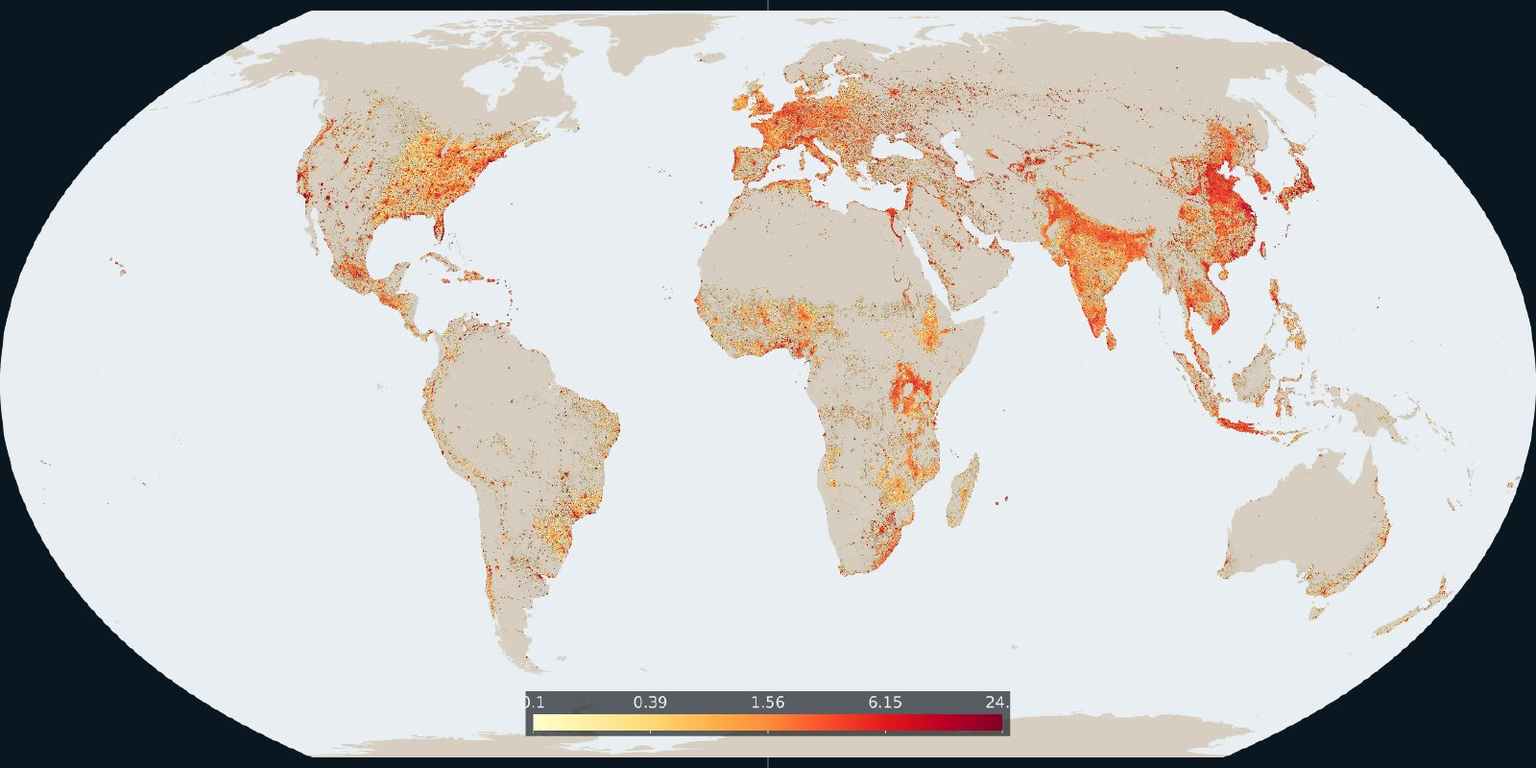
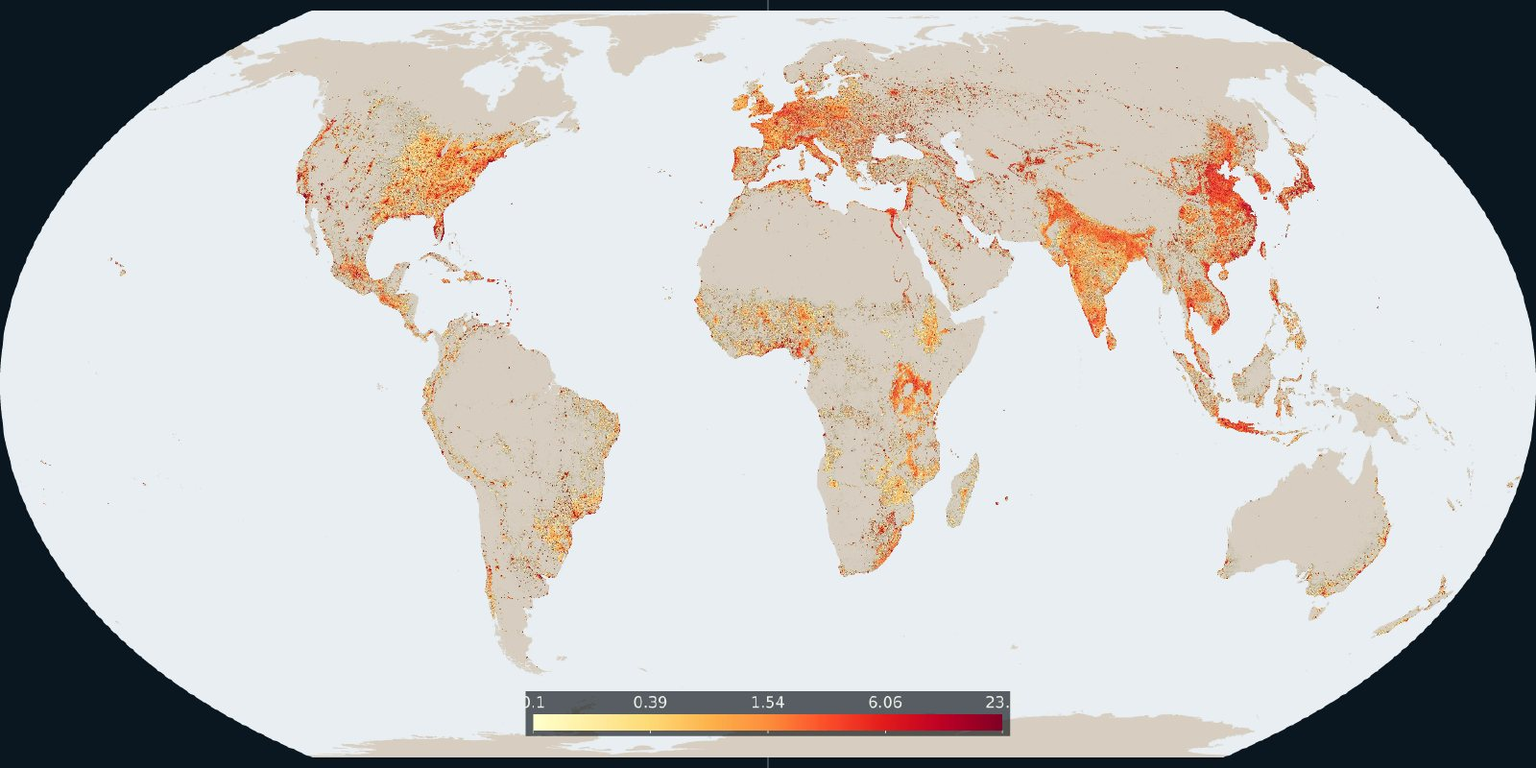
Draw cities and built-up land from the 2020 GHSL epoch.
R2023A’s 2030 step is a projection, so the settlement and built-up plates now use the 2020 satellite epoch, and the card text follows that year. The Maps room active filter chip keeps a lime fill and dark label; the catalog background had been covering the fill and leaving the label unreadably dark.

diff --git a/src/i18n/maps-ru.ts b/src/i18n/maps-ru.ts
@@ -648,37 +648,37 @@ export const ru: Record<string, MapCopy> = {
   },
   'cities-and-towns': {
     title: 'Города и посёлки',
-    cardMeta: 'GHS-SMOD R2023A · эпоха 2030 · сетка 0,02°',
-    hook: 'Городские центры, посёлки и сельская суша на сетке расселения GHSL за 2030 год.',
+    cardMeta: 'GHS-SMOD R2023A · эпоха 2020 · сетка 0,02°',
+    hook: 'Городские центры, посёлки и сельская суша на сетке расселения GHSL за 2020 год.',
     description:
-      'Пластина — эпоха 2030 года слоя GHS-SMOD R2023A, классификации расселения Global Human Settlement Layer. Классы сетки 30 угловых секунд сведены большинством в ячейку 0,02°. Красный — городской центр (класс 30). Оранжевый — посёлок или полуплотное скопление (классы 21, 22 и 23). Оливковый — сельские ячейки (классы 11, 12 и 13). Большая часть площади суши — сельский класс.',
+      'Пластина — эпоха 2020 года слоя GHS-SMOD R2023A, классификации расселения Global Human Settlement Layer: последний шаг этого выпуска, построенный по спутниковым наблюдениям. Классы сетки 30 угловых секунд сведены большинством в ячейку 0,02°. Красный — городской центр (класс 30). Оранжевый — посёлок или полуплотное скопление (классы 21, 22 и 23). Оливковый — сельские ячейки (классы 11, 12 и 13). Большая часть площади суши — сельский класс.',
     whyOnShelf:
       'Сетка показывает класс расселения земли и проведена одинаково во всех странах. Это не национальная доля «городского» населения и не число людей.',
     howToRead:
       'Красный — городские центры, оранжевый — посёлки и полуплотные участки, оливковый — сельские ячейки. Числовой шкалы нет: три цвета — эти группы классов. Вода в сетке расселения и озёра Natural Earth не закрашены.',
     caveats:
-      'Класс 30 — городской центр в классификации GHSL, а не всякое место, которое страна называет городом. Эпоха 2030 — последний шаг выпуска R2023A и включает его прогноз. Пластина не показывает, сколько людей живёт в каждом классе.',
+      'Класс 30 — городской центр в классификации GHSL, а не всякое место, которое страна называет городом. Отдельно: эпохи 2025 и 2030 в том же выпуске — модельный прогноз, и это не эта карта. Пластина не показывает, сколько людей живёт в каждом классе.',
     licenseNote:
-      'Объединённый исследовательский центр Еврокомиссии, GHSL GHS-SMOD R2023A, эпоха 2030, CC BY 4.0. Классы посчитаны на сетке 0,02°. Границы: Natural Earth.',
+      'Объединённый исследовательский центр Еврокомиссии, GHSL GHS-SMOD R2023A, эпоха 2020, CC BY 4.0. Классы посчитаны на сетке 0,02°. Границы: Natural Earth.',
     imageAlt:
-      'Карта Equal Earth классов расселения GHSL на 2030 год: красные городские центры, оранжевые посёлки, оливковая сельская суша',
+      'Карта Equal Earth классов расселения GHSL на 2020 год: красные городские центры, оранжевые посёлки, оливковая сельская суша',
   },
   'built-up-surface': {
     title: 'Застроенная поверхность',
-    cardMeta: 'GHS-BUILT-S R2023A · эпоха 2030 · процент ячейки',
-    hook: 'Какая доля каждой ячейки занята застроенной поверхностью на сетке GHSL 2030 года.',
+    cardMeta: 'GHS-BUILT-S R2023A · эпоха 2020 · процент ячейки',
+    hook: 'Какая доля каждой ячейки занята застроенной поверхностью на сетке GHSL 2020 года.',
     description:
-      'Пластина суммирует застроенную поверхность GHS-BUILT-S R2023A за эпоху 2030 года. Квадратные метры сетки 30 угловых секунд сложены в каждой ячейке 0,02° и разделены на площадь этой ячейки. Цвет — этот процент, по логарифмической шкале от 0,1 до примерно 24. Ячейки ниже 0,1 процента остаются цветом суши. Верх шкалы — 99,5-й перцентиль ячеек, где застройка есть.',
+      'Пластина суммирует застроенную поверхность GHS-BUILT-S R2023A за эпоху 2020 года, последний шаг этого выпуска, построенный по спутниковым наблюдениям. Квадратные метры сетки 30 угловых секунд сложены в каждой ячейке 0,02° и разделены на площадь этой ячейки. Цвет — этот процент, по логарифмической шкале от 0,1 до примерно 24. Ячейки ниже 0,1 процента остаются цветом суши. Верх шкалы — 99,5-й перцентиль ячеек, где застройка есть.',
     whyOnShelf:
       'Застроенная поверхность — это земля под зданиями. Это не число людей и не огни, которые видны ночью.',
     howToRead:
       'От жёлтого к тёмно-красному доля ячейки больше. Число на шкале — процент ячейки 0,02°. Ячейка может перейти 0,1 процента и плотным кварталом, и более редкой застройкой.',
     caveats:
-      'Величина — застроенная поверхность, делённая на площадь ячейки, а не этажи, сложенные в башнях, и не юридическая граница города. Океан и озёра не закрашены. Эпоха 2030 — последний шаг выпуска R2023A и включает его прогноз.',
+      'Величина — застроенная поверхность, делённая на площадь ячейки, а не этажи, сложенные в башнях, и не юридическая граница города. Океан и озёра не закрашены. Отдельно: эпохи 2025 и 2030 в том же выпуске — модельный прогноз, и это не эта карта.',
     licenseNote:
-      'Объединённый исследовательский центр Еврокомиссии, GHSL GHS-BUILT-S R2023A, эпоха 2030, CC BY 4.0. Сведено в сетку 0,02°. Границы: Natural Earth.',
+      'Объединённый исследовательский центр Еврокомиссии, GHSL GHS-BUILT-S R2023A, эпоха 2020, CC BY 4.0. Сведено в сетку 0,02°. Границы: Natural Earth.',
     imageAlt:
-      'Карта Equal Earth процента застроенной поверхности в ячейке 0,02° на 2030 год, от жёлтого к красному, со шкалой чисел',
+      'Карта Equal Earth процента застроенной поверхности в ячейке 0,02° на 2020 год, от жёлтого к красному, со шкалой чисел',
   },
   'population-growth': {
     title: 'Рост населения',

diff --git a/src/i18n/maps-lv.ts b/src/i18n/maps-lv.ts
@@ -645,37 +645,37 @@ export const lv: Record<string, MapCopy> = {
   },
   'cities-and-towns': {
     title: 'Pilsētas un pilsētciemati',
-    cardMeta: 'GHS-SMOD R2023A · 2030. gada epoha · 0,02° tīkls',
-    hook: 'Pilsētu centri, pilsētciemati un lauku zeme GHSL apdzīvojuma tīklā 2030. gadam.',
+    cardMeta: 'GHS-SMOD R2023A · 2020. gada epoha · 0,02° tīkls',
+    hook: 'Pilsētu centri, pilsētciemati un lauku zeme GHSL apdzīvojuma tīklā 2020. gadam.',
     description:
-      'Plate ir GHS-SMOD R2023A 2030. gada epoha, Global Human Settlement Layer apdzīvojuma klasifikācija. 30 loka sekunžu klases ir saskaitītas ar vairākumu 0,02° šūnā. Sarkans ir pilsētas centrs (30. klase). Oranžs ir pilsētciemats vai pusblīvs sakopojums (21., 22. un 23. klase). Olīvzaļš ir lauku šūnas (11., 12. un 13. klase). Lielākā daļa sauszemes platības ir lauku klase.',
+      'Plate ir GHS-SMOD R2023A 2020. gada epoha, Global Human Settlement Layer apdzīvojuma klasifikācija: pēdējā šī izdevuma epoha, kas veidota no satelītu novērojumiem. 30 loka sekunžu klases ir saskaitītas ar vairākumu 0,02° šūnā. Sarkans ir pilsētas centrs (30. klase). Oranžs ir pilsētciemats vai pusblīvs sakopojums (21., 22. un 23. klase). Olīvzaļš ir lauku šūnas (11., 12. un 13. klase). Lielākā daļa sauszemes platības ir lauku klase.',
     whyOnShelf:
       'Tīkls rāda zemes apdzīvojuma klasi un ir zīmēts vienādi katrā valstī. Tas nav valsts pilsētu iedzīvotāju procents un nav cilvēku skaits.',
     howToRead:
       'Sarkans apzīmē pilsētu centrus, oranžs pilsētciematus un pusblīvas vietas, olīvzaļš lauku šūnas. Skaitļu skalas nav: trīs krāsas ir šīs klašu grupas. Ūdens apdzīvojuma tīklā un Natural Earth ezeri paliek nekrāsoti.',
     caveats:
-      '30. klase ir pilsētas centrs GHSL klasifikācijā, nevis katra vieta, ko valsts sauc par pilsētu. 2030. gada epoha ir R2023A izdevuma pēdējais solis un ietver tā prognozi. Plate nerāda, cik cilvēku dzīvo katrā klasē.',
+      '30. klase ir pilsētas centrs GHSL klasifikācijā, nevis katra vieta, ko valsts sauc par pilsētu. Atsevišķi: 2025. un 2030. gada epohas tajā pašā izdevumā ir modeļa prognozes, un tās nav šī karte. Plate nerāda, cik cilvēku dzīvo katrā klasē.',
     licenseNote:
-      'Eiropas Komisijas Kopīgais pētniecības centrs, GHSL GHS-SMOD R2023A, 2030. gada epoha, CC BY 4.0. Klases saskaitītas 0,02° tīklā. Robežas: Natural Earth.',
+      'Eiropas Komisijas Kopīgais pētniecības centrs, GHSL GHS-SMOD R2023A, 2020. gada epoha, CC BY 4.0. Klases saskaitītas 0,02° tīklā. Robežas: Natural Earth.',
     imageAlt:
-      'Equal Earth karte ar GHSL apdzīvojuma klasēm 2030. gadam: sarkani pilsētu centri, oranži pilsētciemati, olīvzaļa lauku zeme',
+      'Equal Earth karte ar GHSL apdzīvojuma klasēm 2020. gadam: sarkani pilsētu centri, oranži pilsētciemati, olīvzaļa lauku zeme',
   },
   'built-up-surface': {
     title: 'Apbūvētā virsma',
-    cardMeta: 'GHS-BUILT-S R2023A · 2030. gada epoha · šūnas procents',
-    hook: 'Cik lielu daļu no katras šūnas veido apbūvētā virsma 2030. gada GHSL tīklā.',
+    cardMeta: 'GHS-BUILT-S R2023A · 2020. gada epoha · šūnas procents',
+    hook: 'Cik lielu daļu no katras šūnas veido apbūvētā virsma 2020. gada GHSL tīklā.',
     description:
-      'Plate summē GHS-BUILT-S R2023A apbūvēto virsmu 2030. gada epohai. Kvadrātmetri no 30 loka sekunžu tīkla ir saskaitīti katrā 0,02° šūnā un dalīti ar šīs šūnas laukumu. Krāsa ir šis procents logaritmiskā skalā no 0,1 līdz aptuveni 24. Šūnas zem 0,1 procenta paliek zemes krāsā. Skalas augša ir 99,5. procentile šūnām, kurās ir kaut kāda apbūve.',
+      'Plate summē GHS-BUILT-S R2023A apbūvēto virsmu 2020. gada epohai, pēdējai šī izdevuma epohai, kas veidota no satelītu novērojumiem. Kvadrātmetri no 30 loka sekunžu tīkla ir saskaitīti katrā 0,02° šūnā un dalīti ar šīs šūnas laukumu. Krāsa ir šis procents logaritmiskā skalā no 0,1 līdz aptuveni 24. Šūnas zem 0,1 procenta paliek zemes krāsā. Skalas augša ir 99,5. procentile šūnām, kurās ir kaut kāda apbūve.',
     whyOnShelf:
       'Apbūvētā virsma ir zeme zem ēkām. Tas nav cilvēku skaits un nav gaismas, kas redzamas naktī.',
     howToRead:
       'No dzeltena uz tumši sarkanu šūnas daļa ir lielāka. Skaitlis skalā ir 0,02° šūnas procents. Šūna var pārsniegt 0,1 procentu ar blīvu kvartālu vai ar retāku apbūvi.',
     caveats:
-      'Vērtība ir apbūvētā virsma, dalīta ar šūnas laukumu, nevis stāvu platība torņos un ne juridiskā pilsētas robeža. Okeāns un ezeri nav krāsoti. 2030. gada epoha ir R2023A izdevuma pēdējais solis un ietver tā prognozi.',
+      'Vērtība ir apbūvētā virsma, dalīta ar šūnas laukumu, nevis stāvu platība torņos un ne juridiskā pilsētas robeža. Okeāns un ezeri nav krāsoti. Atsevišķi: 2025. un 2030. gada epohas tajā pašā izdevumā ir modeļa prognozes, un tās nav šī karte.',
     licenseNote:
-      'Eiropas Komisijas Kopīgais pētniecības centrs, GHSL GHS-BUILT-S R2023A, 2030. gada epoha, CC BY 4.0. Apkopots 0,02° tīklā. Robežas: Natural Earth.',
+      'Eiropas Komisijas Kopīgais pētniecības centrs, GHSL GHS-BUILT-S R2023A, 2020. gada epoha, CC BY 4.0. Apkopots 0,02° tīklā. Robežas: Natural Earth.',
     imageAlt:
-      'Equal Earth karte ar apbūvētās virsmas procentu katrā 0,02° šūnā 2030. gadā, no dzeltena uz sarkanu, ar skaitļu skalu',
+      'Equal Earth karte ar apbūvētās virsmas procentu katrā 0,02° šūnā 2020. gadā, no dzeltena uz sarkanu, ar skaitļu skalu',
   },
   'population-growth': {
     title: 'Iedzīvotāju skaita pieaugums',

diff --git a/src/i18n/maps-pl.ts b/src/i18n/maps-pl.ts
@@ -645,37 +645,37 @@ export const pl: Record<string, MapCopy> = {
   },
   'cities-and-towns': {
     title: 'Miasta i miasteczka',
-    cardMeta: 'GHS-SMOD R2023A · epoka 2030 · siatka 0,02°',
-    hook: 'Ośrodki miejskie, miasteczka i ląd wiejski na siatce osadnictwa GHSL dla 2030 r.',
+    cardMeta: 'GHS-SMOD R2023A · epoka 2020 · siatka 0,02°',
+    hook: 'Ośrodki miejskie, miasteczka i ląd wiejski na siatce osadnictwa GHSL dla 2020 r.',
     description:
-      'Plansza to epoka 2030 warstwy GHS-SMOD R2023A, klasyfikacji osadnictwa Global Human Settlement Layer. Klasy siatki 30 sekund kątowych są liczone większością do komórki 0,02°. Czerwień to ośrodek miejski (klasa 30). Pomarańcz to miasteczko lub skupisko półgęste (klasy 21, 22 i 23). Oliwkowy to komórki wiejskie (klasy 11, 12 i 13). Większość powierzchni lądu to klasa wiejska.',
+      'Plansza to epoka 2020 warstwy GHS-SMOD R2023A, klasyfikacji osadnictwa Global Human Settlement Layer: ostatni krok tego wydania oparty na obserwacjach satelitarnych. Klasy siatki 30 sekund kątowych są liczone większością do komórki 0,02°. Czerwień to ośrodek miejski (klasa 30). Pomarańcz to miasteczko lub skupisko półgęste (klasy 21, 22 i 23). Oliwkowy to komórki wiejskie (klasy 11, 12 i 13). Większość powierzchni lądu to klasa wiejska.',
     whyOnShelf:
       'Siatka pokazuje klasę osadnictwa lądu i jest rysowana tak samo w każdym kraju. To nie krajowy odsetek ludności miejskiej i nie liczba ludzi.',
     howToRead:
       'Czerwień oznacza ośrodki miejskie, pomarańcz miasteczka i obszary półgęste, oliwkowy komórki wiejskie. Nie ma skali liczbowej: trzy kolory to te grupy klas. Woda w siatce osadnictwa i jeziora Natural Earth zostają niezamalowane.',
     caveats:
-      'Klasa 30 to ośrodek miejski w klasyfikacji GHSL, a nie każde miejsce, które kraj nazywa miastem. Epoka 2030 jest ostatnim krokiem wydania R2023A i obejmuje jego projekcję. Plansza nie pokazuje, ilu ludzi mieszka w każdej klasie.',
+      'Klasa 30 to ośrodek miejski w klasyfikacji GHSL, a nie każde miejsce, które kraj nazywa miastem. Osobno: epoki 2025 i 2030 w tym samym wydaniu są projekcją modelu i nie są tą mapą. Plansza nie pokazuje, ilu ludzi mieszka w każdej klasie.',
     licenseNote:
-      'Wspólne Centrum Badawcze Komisji Europejskiej, GHSL GHS-SMOD R2023A, epoka 2030, CC BY 4.0. Klasy policzone na siatce 0,02°. Granice: Natural Earth.',
+      'Wspólne Centrum Badawcze Komisji Europejskiej, GHSL GHS-SMOD R2023A, epoka 2020, CC BY 4.0. Klasy policzone na siatce 0,02°. Granice: Natural Earth.',
     imageAlt:
-      'Mapa Equal Earth klas osadnictwa GHSL na 2030 r.: czerwone ośrodki miejskie, pomarańczowe miasteczka, oliwkowy ląd wiejski',
+      'Mapa Equal Earth klas osadnictwa GHSL na 2020 r.: czerwone ośrodki miejskie, pomarańczowe miasteczka, oliwkowy ląd wiejski',
   },
   'built-up-surface': {
     title: 'Powierzchnia zabudowana',
-    cardMeta: 'GHS-BUILT-S R2023A · epoka 2030 · procent komórki',
-    hook: 'Jaką część każdej komórki stanowi powierzchnia zabudowana na siatce GHSL z 2030 r.',
+    cardMeta: 'GHS-BUILT-S R2023A · epoka 2020 · procent komórki',
+    hook: 'Jaką część każdej komórki stanowi powierzchnia zabudowana na siatce GHSL z 2020 r.',
     description:
-      'Plansza sumuje powierzchnię zabudowaną GHS-BUILT-S R2023A dla epoki 2030. Metry kwadratowe z siatki 30 sekund kątowych są dodawane w każdej komórce 0,02° i dzielone przez pole tej komórki. Kolor to ten procent, na skali logarytmicznej od 0,1 do około 24. Komórki poniżej 0,1 procenta zostają kolorem lądu. Góra skali to 99,5. percentyl komórek, w których jest jakakolwiek zabudowa.',
+      'Plansza sumuje powierzchnię zabudowaną GHS-BUILT-S R2023A dla epoki 2020, ostatniego kroku tego wydania opartego na obserwacjach satelitarnych. Metry kwadratowe z siatki 30 sekund kątowych są dodawane w każdej komórce 0,02° i dzielone przez pole tej komórki. Kolor to ten procent, na skali logarytmicznej od 0,1 do około 24. Komórki poniżej 0,1 procenta zostają kolorem lądu. Góra skali to 99,5. percentyl komórek, w których jest jakakolwiek zabudowa.',
     whyOnShelf:
       'Powierzchnia zabudowana to grunt pod budynkami. To nie liczba ludzi i nie światła widoczne w nocy.',
     howToRead:
       'Od żółci do głębokiej czerwieni udział komórki jest większy. Liczba na skali to procent komórki 0,02°. Komórka może przekroczyć 0,1 procenta gęstą dzielnicą albo rzadszą zabudową.',
     caveats:
-      'Wartość to powierzchnia zabudowana podzielona przez pole komórki, a nie powierzchnia pięter w wieżowcach i nie prawna granica miasta. Ocean i jeziora nie są kolorowane. Epoka 2030 jest ostatnim krokiem wydania R2023A i obejmuje jego projekcję.',
+      'Wartość to powierzchnia zabudowana podzielona przez pole komórki, a nie powierzchnia pięter w wieżowcach i nie prawna granica miasta. Ocean i jeziora nie są kolorowane. Osobno: epoki 2025 i 2030 w tym samym wydaniu są projekcją modelu i nie są tą mapą.',
     licenseNote:
-      'Wspólne Centrum Badawcze Komisji Europejskiej, GHSL GHS-BUILT-S R2023A, epoka 2030, CC BY 4.0. Złożone w siatkę 0,02°. Granice: Natural Earth.',
+      'Wspólne Centrum Badawcze Komisji Europejskiej, GHSL GHS-BUILT-S R2023A, epoka 2020, CC BY 4.0. Złożone w siatkę 0,02°. Granice: Natural Earth.',
     imageAlt:
-      'Mapa Equal Earth procentu powierzchni zabudowanej w komórce 0,02° w 2030 r., od żółci do czerwieni, ze skalą liczb',
+      'Mapa Equal Earth procentu powierzchni zabudowanej w komórce 0,02° w 2020 r., od żółci do czerwieni, ze skalą liczb',
   },
   'population-growth': {
     title: 'Wzrost ludności',

diff --git a/src/i18n/maps.ts b/src/i18n/maps.ts
@@ -782,35 +782,35 @@ const en: Record<string, MapCopy> = {
   },
   'cities-and-towns': {
     title: 'Cities and towns',
-    hook: 'Urban centres, towns and rural land in the GHSL settlement grid for 2030.',
+    hook: 'Urban centres, towns and rural land in the GHSL settlement grid for 2020.',
     description:
-      'The plate is the 2030 epoch of GHS-SMOD R2023A, the Global Human Settlement Layer settlement classification. The 30 arc-second classes are counted by majority onto a 0.02° grid. Red is an urban centre (class 30). Orange is a town or semi-dense cluster (classes 21, 22 and 23). Olive is rural (classes 11, 12 and 13). Most of the land area is the rural class.',
+      'The plate is the 2020 epoch of GHS-SMOD R2023A, the Global Human Settlement Layer settlement classification, and the latest epoch in that release built from satellite observations. The 30 arc-second classes are counted by majority onto a 0.02° grid. Red is an urban centre (class 30). Orange is a town or semi-dense cluster (classes 21, 22 and 23). Olive is rural (classes 11, 12 and 13). Most of the land area is the rural class.',
     whyOnShelf:
       'The grid is the settlement class of the land, drawn the same way in every country. It is not a national percent-urban figure and not a count of people.',
     howToRead:
       'Red marks urban centres, orange marks towns and semi-dense areas, and olive marks rural cells. There is no numeric bar: the three colours are those class groups. Water in the settlement grid, and Natural Earth lakes, stay uncoloured.',
     caveats:
-      'Class 30 is an urban centre in the GHSL classification, not every place a country calls a city. The 2030 epoch is the last step of R2023A and includes its projection. The plate does not show how many people live in each class.',
+      'Class 30 is an urban centre in the GHSL classification, not every place a country calls a city. Aside: the 2025 and 2030 epochs in the same release are model projections, and they are not this map. The plate does not show how many people live in each class.',
     licenseNote:
-      'European Commission Joint Research Centre, GHSL GHS-SMOD R2023A, 2030 epoch, CC BY 4.0. Classes counted on a 0.02° grid. Boundaries: Natural Earth.',
+      'European Commission Joint Research Centre, GHSL GHS-SMOD R2023A, 2020 epoch, CC BY 4.0. Classes counted on a 0.02° grid. Boundaries: Natural Earth.',
     imageAlt:
-      'Equal Earth map of GHSL settlement classes for 2030: red urban centres, orange towns, olive rural land',
+      'Equal Earth map of GHSL settlement classes for 2020: red urban centres, orange towns, olive rural land',
   },
   'built-up-surface': {
     title: 'Built-up surface',
-    hook: 'How much of each cell is built-up surface in the 2030 GHSL grid.',
+    hook: 'How much of each cell is built-up surface in the 2020 GHSL grid.',
     description:
-      'The plate sums GHS-BUILT-S R2023A built-up surface for the 2030 epoch. Square metres from the 30 arc-second grid are added inside each 0.02° cell and divided by the area of that cell. The colour is that percent, on a log scale from 0.1 to about 24. Cells under 0.1 percent stay the base land colour. The top of the bar is the 99.5th percentile of cells that have any built-up surface.',
+      'The plate sums GHS-BUILT-S R2023A built-up surface for the 2020 epoch, the latest epoch in that release built from satellite observations. Square metres from the 30 arc-second grid are added inside each 0.02° cell and divided by the area of that cell. The colour is that percent, on a log scale from 0.1 to about 24. Cells under 0.1 percent stay the base land colour. The top of the bar is the 99.5th percentile of cells that have any built-up surface.',
     whyOnShelf:
       'Built-up surface is the ground covered by buildings. It is not the number of people and not the lights seen at night.',
     howToRead:
       'Yellow to deep red is a larger share of the cell. The number on the bar is percent of the 0.02° cell. A cell can pass 0.1 percent with a dense district or with a thinner scatter of buildings.',
     caveats:
-      'The value is built-up surface divided by the area of the cell, not floor space stacked in towers and not a legal city boundary. Ocean and lakes are not coloured. The 2030 epoch is the last step of R2023A and includes its projection.',
+      'The value is built-up surface divided by the area of the cell, not floor space stacked in towers and not a legal city boundary. Ocean and lakes are not coloured. Aside: the 2025 and 2030 epochs in the same release are model projections, and they are not this map.',
     licenseNote:
-      'European Commission Joint Research Centre, GHSL GHS-BUILT-S R2023A, 2030 epoch, CC BY 4.0. Aggregated to a 0.02° grid. Boundaries: Natural Earth.',
+      'European Commission Joint Research Centre, GHSL GHS-BUILT-S R2023A, 2020 epoch, CC BY 4.0. Aggregated to a 0.02° grid. Boundaries: Natural Earth.',
     imageAlt:
-      'Equal Earth map of the percent of each 0.02° cell that is built-up surface in 2030, yellow to red, with a numeric colour bar',
+      'Equal Earth map of the percent of each 0.02° cell that is built-up surface in 2020, yellow to red, with a numeric colour bar',
   },
   'population-growth': {
     title: 'Population growth',

diff --git a/src/i18n/real-map-credits.ts b/src/i18n/real-map-credits.ts
@@ -150,16 +150,16 @@ const credits: Record<string, Record<Locale, string>> = {
     lv: 'Karte: Fix Planet no ANO World Population Prospects 2024, vidējais variants, 2024. gada iedzīvotāju skaita pieauguma temps. Skaitlis ir procenti gadā, skala ar centru nullē. Robežas: Natural Earth 1:50m.',
   },
   'cities-and-towns': {
-    en: 'Map: Fix Planet from the European Commission GHSL GHS-SMOD R2023A, 2030 epoch. Red is an urban centre (class 30), orange is a town or semi-dense cluster (classes 21 to 23), olive is rural (classes 11 to 13), counted on a 0.02° grid. CC BY 4.0. Boundaries: Natural Earth.',
-    ru: 'Карта: Fix Planet по данным GHSL GHS-SMOD R2023A Еврокомиссии, эпоха 2030 года. Красный — городской центр (класс 30), оранжевый — посёлок или полуплотное скопление (классы 21–23), оливковый — сельские ячейки (классы 11–13), на сетке 0,02°. CC BY 4.0. Границы: Natural Earth.',
-    pl: 'Mapa: Fix Planet na podstawie GHSL GHS-SMOD R2023A Komisji Europejskiej, epoka 2030. Czerwień to ośrodek miejski (klasa 30), pomarańcz to miasteczko lub skupisko półgęste (klasy 21–23), oliwkowy to komórki wiejskie (klasy 11–13), na siatce 0,02°. CC BY 4.0. Granice: Natural Earth.',
-    lv: 'Karte: Fix Planet no Eiropas Komisijas GHSL GHS-SMOD R2023A, 2030. gada epoha. Sarkans ir pilsētas centrs (30. klase), oranžs ir pilsētciemats vai pusblīvs sakopojums (21.–23. klase), olīvzaļš ir lauku šūnas (11.–13. klase), 0,02° tīklā. CC BY 4.0. Robežas: Natural Earth.',
+    en: 'Map: Fix Planet from the European Commission GHSL GHS-SMOD R2023A, 2020 epoch. Red is an urban centre (class 30), orange is a town or semi-dense cluster (classes 21 to 23), olive is rural (classes 11 to 13), counted on a 0.02° grid. CC BY 4.0. Boundaries: Natural Earth.',
+    ru: 'Карта: Fix Planet по данным GHSL GHS-SMOD R2023A Еврокомиссии, эпоха 2020 года. Красный — городской центр (класс 30), оранжевый — посёлок или полуплотное скопление (классы 21–23), оливковый — сельские ячейки (классы 11–13), на сетке 0,02°. CC BY 4.0. Границы: Natural Earth.',
+    pl: 'Mapa: Fix Planet na podstawie GHSL GHS-SMOD R2023A Komisji Europejskiej, epoka 2020. Czerwień to ośrodek miejski (klasa 30), pomarańcz to miasteczko lub skupisko półgęste (klasy 21–23), oliwkowy to komórki wiejskie (klasy 11–13), na siatce 0,02°. CC BY 4.0. Granice: Natural Earth.',
+    lv: 'Karte: Fix Planet no Eiropas Komisijas GHSL GHS-SMOD R2023A, 2020. gada epoha. Sarkans ir pilsētas centrs (30. klase), oranžs ir pilsētciemats vai pusblīvs sakopojums (21.–23. klase), olīvzaļš ir lauku šūnas (11.–13. klase), 0,02° tīklā. CC BY 4.0. Robežas: Natural Earth.',
   },
   'built-up-surface': {
-    en: 'Map: Fix Planet from the European Commission GHSL GHS-BUILT-S R2023A, 2030 epoch. The number is the percent of each 0.02° cell that is built-up surface, on a log scale from 0.1. CC BY 4.0. Boundaries: Natural Earth.',
-    ru: 'Карта: Fix Planet по данным GHSL GHS-BUILT-S R2023A Еврокомиссии, эпоха 2030 года. Число — процент застроенной поверхности в каждой ячейке 0,02°, логарифмическая шкала от 0,1. CC BY 4.0. Границы: Natural Earth.',
-    pl: 'Mapa: Fix Planet na podstawie GHSL GHS-BUILT-S R2023A Komisji Europejskiej, epoka 2030. Liczba to procent powierzchni zabudowanej w każdej komórce 0,02°, skala logarytmiczna od 0,1. CC BY 4.0. Granice: Natural Earth.',
-    lv: 'Karte: Fix Planet no Eiropas Komisijas GHSL GHS-BUILT-S R2023A, 2030. gada epoha. Skaitlis ir apbūvētās virsmas procents katrā 0,02° šūnā, logaritmiskā skala no 0,1. CC BY 4.0. Robežas: Natural Earth.',
+    en: 'Map: Fix Planet from the European Commission GHSL GHS-BUILT-S R2023A, 2020 epoch. The number is the percent of each 0.02° cell that is built-up surface, on a log scale from 0.1. CC BY 4.0. Boundaries: Natural Earth.',
+    ru: 'Карта: Fix Planet по данным GHSL GHS-BUILT-S R2023A Еврокомиссии, эпоха 2020 года. Число — процент застроенной поверхности в каждой ячейке 0,02°, логарифмическая шкала от 0,1. CC BY 4.0. Границы: Natural Earth.',
+    pl: 'Mapa: Fix Planet na podstawie GHSL GHS-BUILT-S R2023A Komisji Europejskiej, epoka 2020. Liczba to procent powierzchni zabudowanej w każdej komórce 0,02°, skala logarytmiczna od 0,1. CC BY 4.0. Granice: Natural Earth.',
+    lv: 'Karte: Fix Planet no Eiropas Komisijas GHSL GHS-BUILT-S R2023A, 2020. gada epoha. Skaitlis ir apbūvētās virsmas procents katrā 0,02° šūnā, logaritmiskā skala no 0,1. CC BY 4.0. Robežas: Natural Earth.',
   },
 };
 

diff --git a/src/data/maps.ts b/src/data/maps.ts
@@ -806,7 +806,7 @@ export const mapMeta: MapMeta[] = [
   {
     slug: 'cities-and-towns',
     category: 'population',
-    year: '2030',
+    year: '2020',
     sourceShort: 'GHS-SMOD R2023A',
     sourceOrg: 'European Commission JRC GHSL',
     sourceUrl: 'https://human-settlement.emergency.copernicus.eu/ghs_smod2023.php',
@@ -814,11 +814,11 @@ export const mapMeta: MapMeta[] = [
     preview: 'cities-and-towns.jpg',
     detail: 'detail/cities-and-towns.webp',
     previewKind: 'data',
-    cardMeta: 'GHS-SMOD R2023A · 2030 epoch · 0.02° grid',
+    cardMeta: 'GHS-SMOD R2023A · 2020 epoch · 0.02° grid',
     gridSourceLabel: 'GHS-SMOD R2023A',
     sources: [
       {
-        label: 'European Commission JRC — GHSL GHS-SMOD R2023A',
+        label: 'European Commission JRC — GHSL GHS-SMOD R2023A, 2020 epoch',
         url: 'https://human-settlement.emergency.copernicus.eu/ghs_smod2023.php',
       },
       {
@@ -834,7 +834,7 @@ export const mapMeta: MapMeta[] = [
   {
     slug: 'built-up-surface',
     category: 'population',
-    year: '2030',
+    year: '2020',
     sourceShort: 'GHS-BUILT-S R2023A',
     sourceOrg: 'European Commission JRC GHSL',
     sourceUrl: 'https://human-settlement.emergency.copernicus.eu/ghs_buS2023.php',
@@ -842,11 +842,11 @@ export const mapMeta: MapMeta[] = [
     preview: 'built-up-surface.jpg',
     detail: 'detail/built-up-surface.webp',
     previewKind: 'data',
-    cardMeta: 'GHS-BUILT-S R2023A · 2030 epoch · percent of cell',
+    cardMeta: 'GHS-BUILT-S R2023A · 2020 epoch · percent of cell',
     gridSourceLabel: 'GHS-BUILT-S R2023A',
     sources: [
       {
-        label: 'European Commission JRC — GHSL GHS-BUILT-S R2023A',
+        label: 'European Commission JRC — GHSL GHS-BUILT-S R2023A, 2020 epoch',
         url: 'https://human-settlement.emergency.copernicus.eu/ghs_buS2023.php',
       },
       {

diff --git a/src/styles/global.css b/src/styles/global.css
@@ -1598,6 +1598,15 @@ a.wildlife-card:hover {
   background: rgba(10, 10, 10, 0.88);
 }
 
+/* The catalog background above shares specificity with the global active
+   rule and was winning, leaving black type on a near-black pill. */
+.maps-catalog .filter-btn:hover,
+.maps-catalog .filter-btn.is-active {
+  background: var(--lime);
+  border-color: var(--lime);
+  color: var(--black);
+}
+
 .map-card {
   display: flex;
   flex-direction: column;

diff --git a/scripts/maps-real/render_population.py b/scripts/maps-real/render_population.py
@@ -2,7 +2,8 @@
 """Population plates from UN WPP 2024 and GHSL R2023A.
 
 Country choropleths use Natural Earth 1:50m. Settlement grids are the
-2030 epoch of GHS-SMOD and GHS-BUILT-S (30 arc-second), counted onto a
+2020 epoch of GHS-SMOD and GHS-BUILT-S (30 arc-second), the latest
+satellite-based epoch in R2023A, counted onto a
 0.02° grid. Detail frames are 7200×3600 Equal Earth. Previews are
 1600×800. No words are drawn; numeric colour bars only.
 
@@ -49,8 +50,8 @@ from render_pass2 import colorize
 
 NE_50 = RAW / "ne_50m_admin_0_countries.geojson"
 WPP = RAW / "WPP2024_Demographic_Indicators_Medium.csv.gz"
-SMOD_TIF = RAW / "GHS_SMOD_E2030_GLOBE_R2023A_4326_30ss_V2_0.tif"
-BUILT_TIF = RAW / "GHS_BUILT_S_E2030_GLOBE_R2023A_4326_30ss_V1_0.tif"
+SMOD_TIF = RAW / "GHS_SMOD_E2020_GLOBE_R2023A_4326_30ss_V2_0.tif"
+BUILT_TIF = RAW / "GHS_BUILT_S_E2020_GLOBE_R2023A_4326_30ss_V1_0.tif"
 RES = 0.02
 NLAT = int(180 / RES)
 NLON = int(360 / RES)

diff --git a/scripts/maps-real/README.md b/scripts/maps-real/README.md
@@ -44,8 +44,8 @@ Downloads are stored in `scripts/maps-real/raw/` and are listed in `.gitignore`.
 | Natural Earth 1:50m countries (world population and population growth only) | `ne_50m_admin_0_countries.geojson` | https://github.com/nvkelso/natural-earth-vector | Public domain |
 | `world-population` | UN WPP 2024 medium variant, population on 1 July 2024, people, log scale | https://population.un.org/wpp/assets/Excel%20Files/1_Indicator%20(Standard)/CSV_FILES/WPP2024_Demographic_Indicators_Medium.csv.gz | UN DESA |
 | `population-growth` | UN WPP 2024 medium variant, 2024 population growth rate, percent per year, diverging scale centered at zero | same CSV | UN DESA |
-| `cities-and-towns` | GHSL GHS-SMOD R2023A, 2030 epoch, 30 arc-second classes aggregated by majority to 0.02°. Red = urban centre (30), orange = towns (21–23), olive = rural (11–13) | https://jeodpp.jrc.ec.europa.eu/ftp/jrc-opendata/GHSL/GHS_SMOD_GLOBE_R2023A/GHS_SMOD_E2030_GLOBE_R2023A_4326_30ss/V2-0/ | CC BY 4.0 (European Commission JRC) |
-| `built-up-surface` | GHSL GHS-BUILT-S R2023A, 2030 epoch, 30 arc-second built-up square metres summed to 0.02° and drawn as the percent of the cell. Log scale from 0.1 | https://jeodpp.jrc.ec.europa.eu/ftp/jrc-opendata/GHSL/GHS_BUILT_S_GLOBE_R2023A/GHS_BUILT_S_E2030_GLOBE_R2023A_4326_30ss/V1-0/ | CC BY 4.0 (European Commission JRC) |
+| `cities-and-towns` | GHSL GHS-SMOD R2023A, 2020 epoch (latest satellite-based epoch; 2025 and 2030 are projections and are not drawn), 30 arc-second classes aggregated by majority to 0.02°. Red = urban centre (30), orange = towns (21–23), olive = rural (11–13) | https://jeodpp.jrc.ec.europa.eu/ftp/jrc-opendata/GHSL/GHS_SMOD_GLOBE_R2023A/GHS_SMOD_E2020_GLOBE_R2023A_4326_30ss/V2-0/ | CC BY 4.0 (European Commission JRC) |
+| `built-up-surface` | GHSL GHS-BUILT-S R2023A, 2020 epoch (latest satellite-based epoch; 2025 and 2030 are projections and are not drawn), 30 arc-second built-up square metres summed to 0.02° and drawn as the percent of the cell. Log scale from 0.1 | https://jeodpp.jrc.ec.europa.eu/ftp/jrc-opendata/GHSL/GHS_BUILT_S_GLOBE_R2023A/GHS_BUILT_S_E2020_GLOBE_R2023A_4326_30ss/V1-0/ | CC BY 4.0 (European Commission JRC) |
 | `consumption-co2-emissions` | Global Carbon Project consumption-based CO₂, 2023, via Our World in Data | https://ourworldindata.org/grapher/consumption-co2-emissions.csv | CC BY (Global Carbon Project / Our World in Data) |
 | `methane-emissions` | EDGAR methane emissions including land use, 2024, via Our World in Data | https://ourworldindata.org/grapher/methane-emissions.csv | CC BY (EDGAR / European Commission JRC; Our World in Data) |
 | `mismanaged-plastic-waste` | Meijer et al. 2021 mismanaged plastic waste, year 2019, via Our World in Data | https://ourworldindata.org/grapher/plastic-waste-mismanaged.csv | CC BY |
